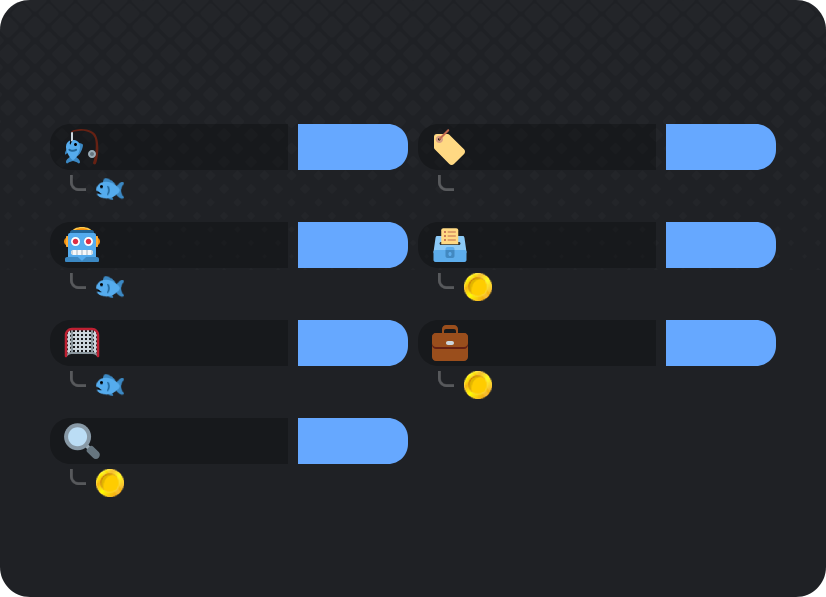
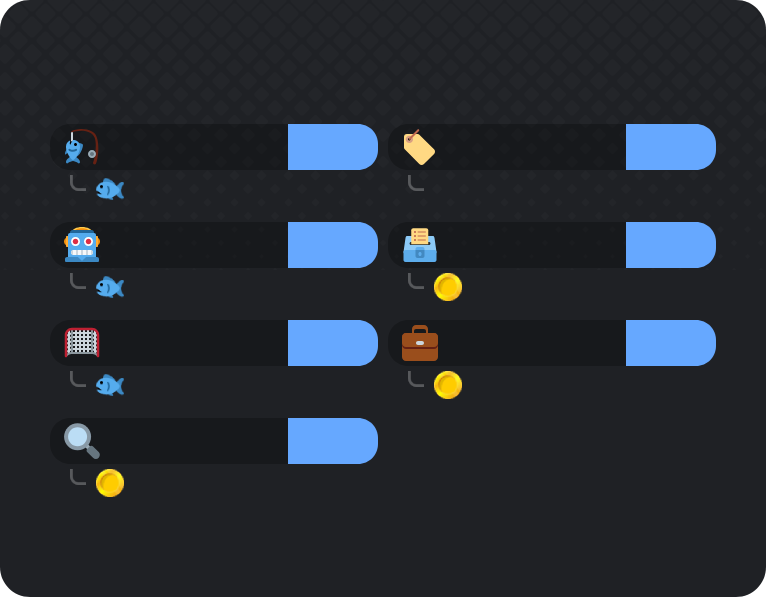
L.gear user card width decreased

diff --git a/src/main/java/modules/graphics/FisheryGraphics.java b/src/main/java/modules/graphics/FisheryGraphics.java
@@ -174,30 +174,30 @@ public class FisheryGraphics {
 
         BufferedImage coinImage = ImageIO.read(new LocalFile(LocalFile.Directory.RESOURCES,"coin.png"));
         g2d.drawImage(coinImage, 65 + labelWidth, 521, null);
-        g2d.drawString(fontExtraSmall.getIterator(coinGiftLimit != 0 ? StringUtil.numToString(coinGiftLimit) : "∞"), 98 + labelWidth, 526 + getTextHeight(frc, fontExtraSmall));
+        drawStringScaledToBounds(g2d, frc, fontExtraSmall, coinGiftLimit != 0 ? StringUtil.numToString(coinGiftLimit) : "∞", 98 + labelWidth, 526 + getTextHeight(frc, fontExtraSmall), 716 - (98 + labelWidth), false);
     }
 
     private static void drawGearSlot(Graphics2D g2d, Locale locale, FontRenderContext frc, AttributedStringGenerator fontSmall,
                                      AttributedStringGenerator fontExtraSmall, String label, int i,
                                      String level, String value) {
-        int xAdd = (i / 4) * 368;
+        int xAdd = (i / 4) * 338;
         int yAdd = (i % 4) * 98;
 
         drawStringScaledToBounds(g2d, frc, fontSmall, label, 111 + xAdd, 147 + yAdd + getTextHeight(frc, fontSmall) / 2, 168, false);
 
         String levelString = TextManager.getString(locale, Category.FISHERY, "fisherycat_level", level);
         double levelWidth = fontSmall.getStringBounds(levelString, frc).getWidth();
-        double levelScaleX = Math.min(1.0, 75.0 / levelWidth);
+        double levelScaleX = Math.min(1.0, 55.0 / levelWidth);
 
         g2d.setColor(Color.BLACK);
-        drawStringScaled(g2d, frc, fontSmall, levelString, (int) (350 + xAdd - Math.min(75.0, levelWidth) / 2.0), 147 + yAdd + getTextHeight(frc, fontSmall) / 2, levelScaleX, false);
+        drawStringScaled(g2d, frc, fontSmall, levelString, (int) (330 + xAdd - Math.min(55.0, levelWidth) / 2.0), 147 + yAdd + getTextHeight(frc, fontSmall) / 2, levelScaleX, false);
         g2d.setColor(Color.WHITE);
 
         double valueWidth = fontExtraSmall.getStringBounds(value, frc).getWidth();
         if (i != 4) {
             valueWidth += 10 + fontExtraSmall.getStringBounds(TextManager.getString(locale, Category.FISHERY, "fisherycat_gearsubtitle_" + i), frc).getWidth();
         }
-        double valueScaleX = Math.min(1.0, (279.0 + (i == 4 ? 33.0 : 0.0)) / valueWidth);
+        double valueScaleX = Math.min(1.0, (249.0 + (i == 4 ? 33.0 : 0.0)) / valueWidth);
 
         double valueNumberWidth = drawStringScaled(g2d, frc, fontExtraSmall, value, 129 + xAdd - (i == 4 ? 33 : 0), 181 + yAdd + getTextHeight(frc, fontExtraSmall), valueScaleX, false);
         if (i != 4) {
